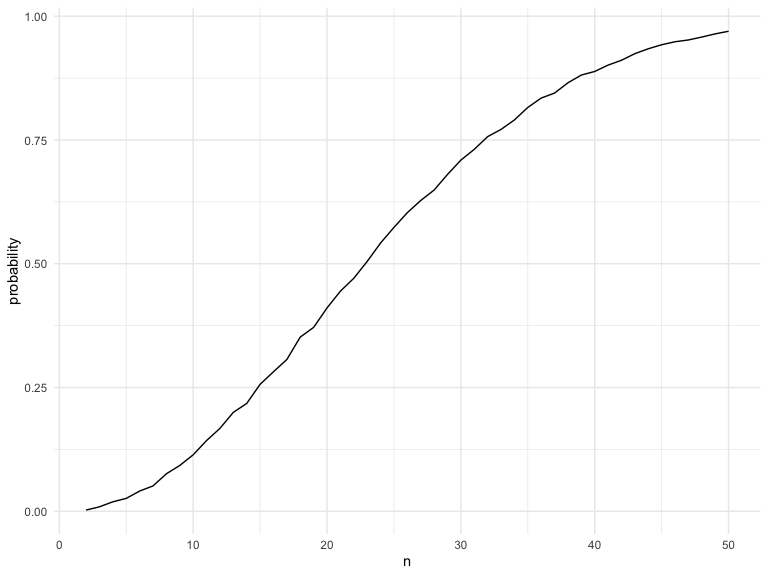
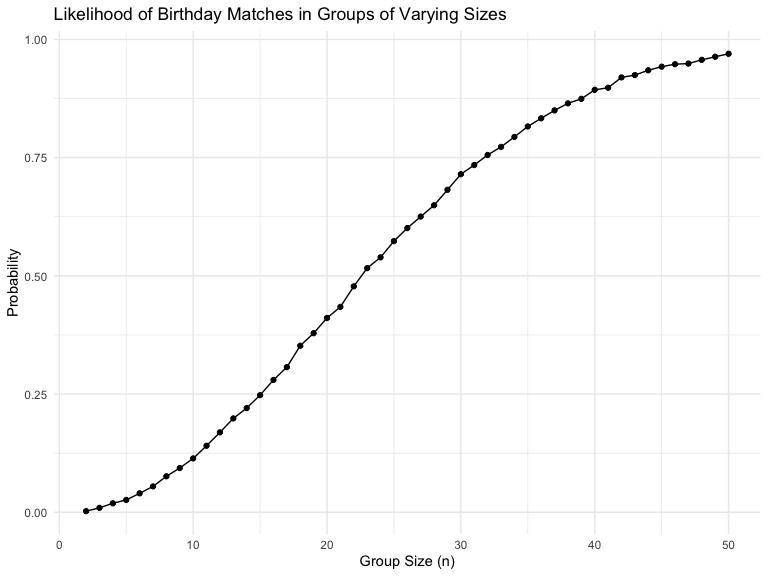
revision on problem 1

diff --git a/p8105_Homework5.md b/p8105_Homework5.md
@@ -6,6 +6,10 @@ Name: Xi Peng Uni: xp2213
 
 # Problem 1. Birthday problem
 
+Defines the bday_sim function, which simulates random birthdays for a
+group of size n and checks if there are any duplicate
+birthdays,returning TRUE if duplicates exist and FALSE otherwise.
+
 ``` r
 bday_sim = function(n) {
   
@@ -16,11 +20,11 @@ bday_sim = function(n) {
       return(duplicate)
       
 }
-
-bday_sim(100)
 ```
 
-    ## [1] TRUE
+Runs the bday_sim function 10,000 times for each group size from 2 to
+50, calculates the probability of at least two people sharing a
+birthday, and plots this probability as a function of group size.
 
 ``` r
 sim_res =
@@ -34,7 +38,13 @@ sim_res =
 
 sim_res |> 
   ggplot(aes(x = n, y = probability)) +
-  geom_line()
+  geom_line() +
+  geom_point() +
+  labs (
+    title = "Likelihood of Birthday Matches in Groups of Varying Sizes",
+    x = "Group Size (n)",
+    y = "Probability"
+  )
 ```
 
 <img src="p8105_Homework5_files/figure-gfm/unnamed-chunk-2-1.png" width="90%" />
@@ -87,13 +97,13 @@ knitr::kable(sim_q2_summary_df)
 
 |  mu |  power | avg_estimate | avg_estimate_rejected |
 |----:|-------:|-------------:|----------------------:|
-|   0 | 0.0470 |    0.0040973 |              0.223064 |
-|   1 | 0.1790 |    0.9811680 |              2.256505 |
-|   2 | 0.5568 |    1.9901983 |              2.627835 |
-|   3 | 0.8874 |    2.9899405 |              3.178205 |
-|   4 | 0.9886 |    3.9874752 |              4.014364 |
-|   5 | 0.9998 |    5.0014896 |              5.002200 |
-|   6 | 1.0000 |    6.0091574 |              6.009157 |
+|   0 | 0.0500 |    0.0116136 |              0.087363 |
+|   1 | 0.1882 |    1.0123946 |              2.234635 |
+|   2 | 0.5626 |    2.0067996 |              2.616529 |
+|   3 | 0.8904 |    3.0001475 |              3.184274 |
+|   4 | 0.9872 |    4.0095210 |              4.040242 |
+|   5 | 0.9994 |    4.9975277 |              4.999461 |
+|   6 | 1.0000 |    6.0068896 |              6.006890 |
 
 ``` r
 power_plot = 
@@ -116,7 +126,8 @@ power_plot
 ``` r
 estimates_plot = 
   sim_q2_summary_df |>
-  ggplot(aes(x = mu)) +
+  ggplot(aes(x = mu, y = avg_estimate)) +
+  geom_point() +
   geom_line(aes(y = avg_estimate, color = "All samples")) +
   geom_line(aes(y = avg_estimate_rejected, color = "Rejected null only")) +
   labs(
@@ -170,7 +181,7 @@ homi_data2 = homi_data |>
   )
 
 total_vs_unsolve = homi_data2 |> 
-    group_by(city_state) |> 
+    group_by(city) |> 
   summarize(
     Total_homicides = n(),
     Unsolved_homicides = sum(disposition %in% c("Closed without arrest", "Open/No arrest"))
@@ -179,65 +190,65 @@ total_vs_unsolve = homi_data2 |>
 knitr::kable(total_vs_unsolve, caption = "Total and Unsolved Homicides Across U.S. Cities")
 ```
 
-| city_state         | Total_homicides | Unsolved_homicides |
-|:-------------------|----------------:|-------------------:|
-| Albuquerque, NM    |             378 |                146 |
-| Atlanta, GA        |             973 |                373 |
-| Baltimore, MD      |            2827 |               1825 |
-| Baton Rouge, LA    |             424 |                196 |
-| Birmingham, AL     |             800 |                347 |
-| Boston, MA         |             614 |                310 |
-| Buffalo, NY        |             521 |                319 |
-| Charlotte, NC      |             687 |                206 |
-| Chicago, IL        |            5535 |               4073 |
-| Cincinnati, OH     |             694 |                309 |
-| Columbus, OH       |            1084 |                575 |
-| Dallas, TX         |            1567 |                754 |
-| Denver, CO         |             312 |                169 |
-| Detroit, MI        |            2519 |               1482 |
-| Durham, NC         |             276 |                101 |
-| Fort Worth, TX     |             549 |                255 |
-| Fresno, CA         |             487 |                169 |
-| Houston, TX        |            2942 |               1493 |
-| Indianapolis, IN   |            1322 |                594 |
-| Jacksonville, FL   |            1168 |                597 |
-| Kansas City, MO    |            1190 |                486 |
-| Las Vegas, NV      |            1381 |                572 |
-| Long Beach, CA     |             378 |                156 |
-| Los Angeles, CA    |            2257 |               1106 |
-| Louisville, KY     |             576 |                261 |
-| Memphis, TN        |            1514 |                483 |
-| Miami, FL          |             744 |                450 |
-| Milwaukee, wI      |            1115 |                403 |
-| Minneapolis, MN    |             366 |                187 |
-| Nashville, TN      |             767 |                278 |
-| New Orleans, LA    |            1434 |                930 |
-| New York, NY       |             627 |                243 |
-| Oakland, CA        |             947 |                508 |
-| Oklahoma City, OK  |             672 |                326 |
-| Omaha, NE          |             409 |                169 |
-| Philadelphia, PA   |            3037 |               1360 |
-| Phoenix, AZ        |             914 |                504 |
-| Pittsburgh, PA     |             631 |                337 |
-| Richmond, VA       |             429 |                113 |
-| Sacramento, CA     |             376 |                139 |
-| San Antonio, TX    |             833 |                357 |
-| San Bernardino, CA |             275 |                170 |
-| San Diego, CA      |             461 |                175 |
-| San Francisco, CA  |             663 |                336 |
-| Savannah, GA       |             246 |                115 |
-| St. Louis, MO      |            1677 |                905 |
-| Stockton, CA       |             444 |                266 |
-| Tampa, FL          |             208 |                 95 |
-| Tulsa, AL          |               1 |                  0 |
-| Tulsa, OK          |             583 |                193 |
-| Washington, DC     |            1345 |                589 |
+| city           | Total_homicides | Unsolved_homicides |
+|:---------------|----------------:|-------------------:|
+| Albuquerque    |             378 |                146 |
+| Atlanta        |             973 |                373 |
+| Baltimore      |            2827 |               1825 |
+| Baton Rouge    |             424 |                196 |
+| Birmingham     |             800 |                347 |
+| Boston         |             614 |                310 |
+| Buffalo        |             521 |                319 |
+| Charlotte      |             687 |                206 |
+| Chicago        |            5535 |               4073 |
+| Cincinnati     |             694 |                309 |
+| Columbus       |            1084 |                575 |
+| Dallas         |            1567 |                754 |
+| Denver         |             312 |                169 |
+| Detroit        |            2519 |               1482 |
+| Durham         |             276 |                101 |
+| Fort Worth     |             549 |                255 |
+| Fresno         |             487 |                169 |
+| Houston        |            2942 |               1493 |
+| Indianapolis   |            1322 |                594 |
+| Jacksonville   |            1168 |                597 |
+| Kansas City    |            1190 |                486 |
+| Las Vegas      |            1381 |                572 |
+| Long Beach     |             378 |                156 |
+| Los Angeles    |            2257 |               1106 |
+| Louisville     |             576 |                261 |
+| Memphis        |            1514 |                483 |
+| Miami          |             744 |                450 |
+| Milwaukee      |            1115 |                403 |
+| Minneapolis    |             366 |                187 |
+| Nashville      |             767 |                278 |
+| New Orleans    |            1434 |                930 |
+| New York       |             627 |                243 |
+| Oakland        |             947 |                508 |
+| Oklahoma City  |             672 |                326 |
+| Omaha          |             409 |                169 |
+| Philadelphia   |            3037 |               1360 |
+| Phoenix        |             914 |                504 |
+| Pittsburgh     |             631 |                337 |
+| Richmond       |             429 |                113 |
+| Sacramento     |             376 |                139 |
+| San Antonio    |             833 |                357 |
+| San Bernardino |             275 |                170 |
+| San Diego      |             461 |                175 |
+| San Francisco  |             663 |                336 |
+| Savannah       |             246 |                115 |
+| St. Louis      |            1677 |                905 |
+| Stockton       |             444 |                266 |
+| Tampa          |             208 |                 95 |
+| Tulsa          |             584 |                193 |
+| Washington     |            1345 |                589 |
 
 Total and Unsolved Homicides Across U.S. Cities
 
 The raw data contains 12 variables, which are uid, reported_date,
 victim_last, victim_first, victim_race, victim_age, victim_sex, city,
-state, lat, lon, disposition, and 52179 observations.
+state, lat, lon, disposition, and 52179 observations. For the tidy
+dataset, a new variable “city_state” was created.
 
 ``` r
 Bal_MD_prop = homi_data2 |> 
@@ -369,3 +380,7 @@ homi_rate_plot
 ```
 
 <img src="p8105_Homework5_files/figure-gfm/unnamed-chunk-9-1.png" width="90%" />
+
+The plot displays the estimated proportion of unsolved homicides across
+various U.S. cities, with each point representing the mean estimate and
+error bars indicating confidence intervals.
